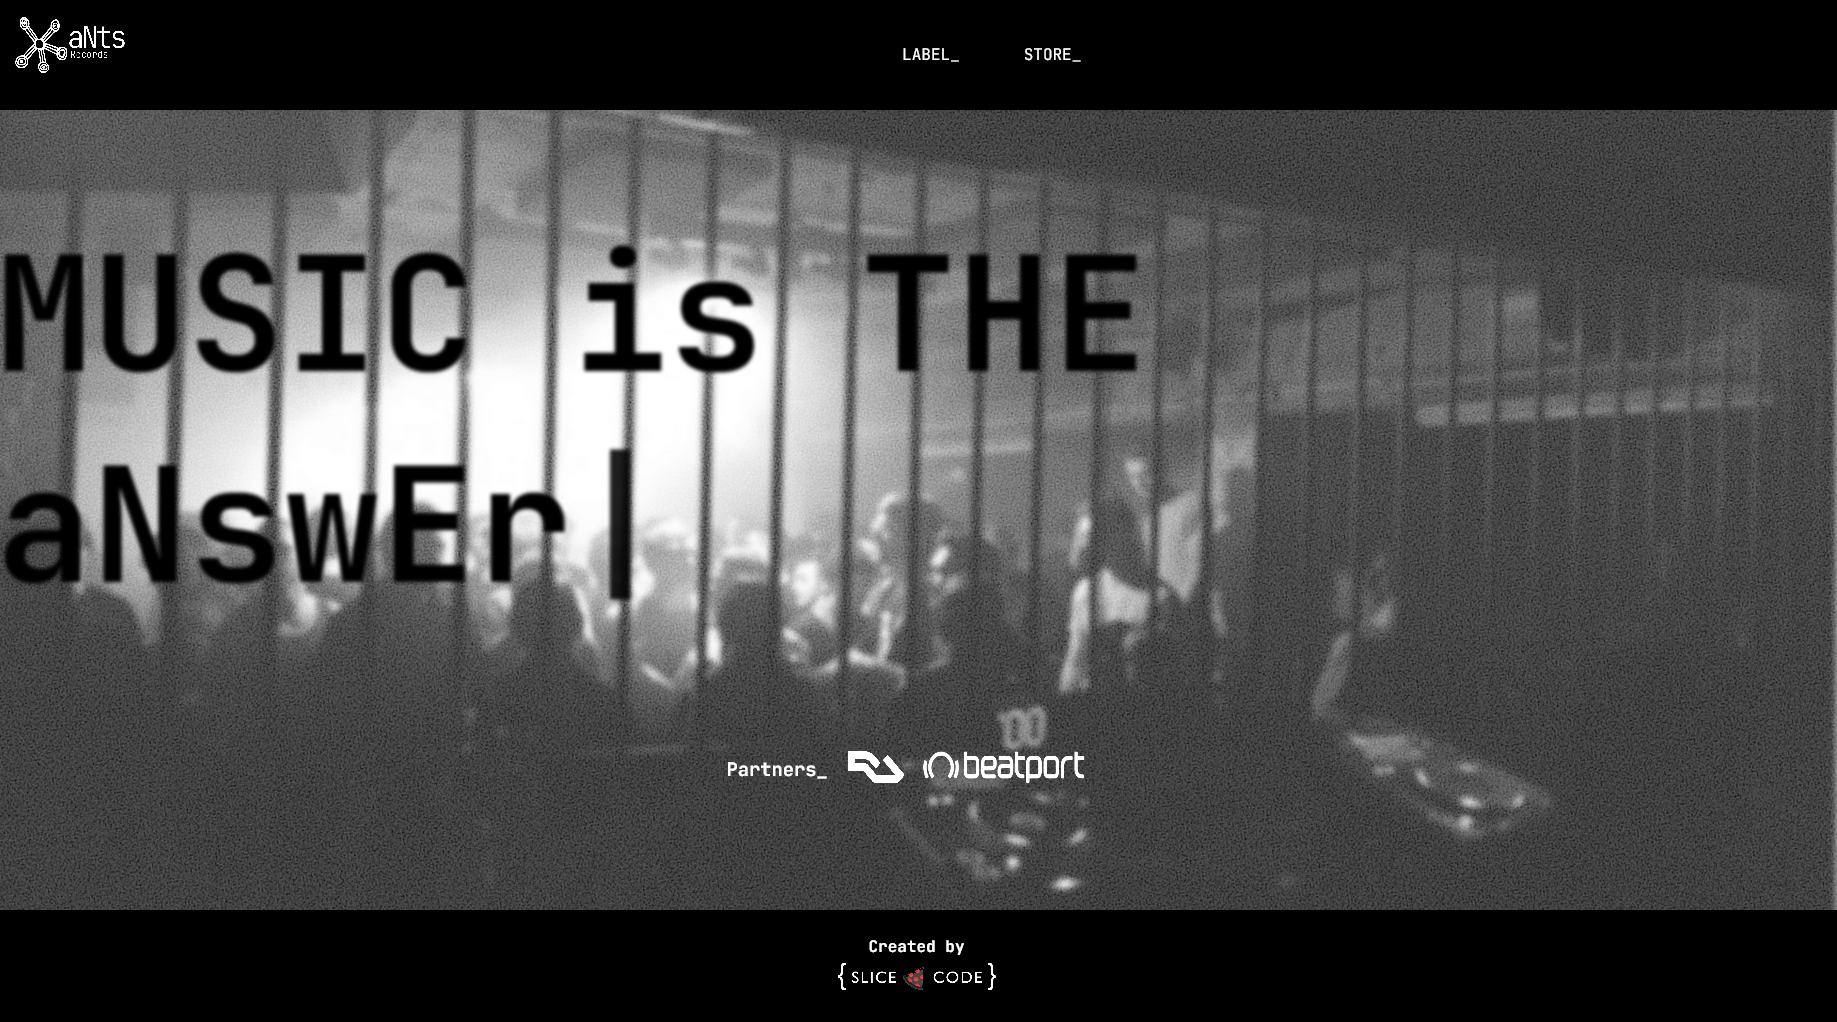
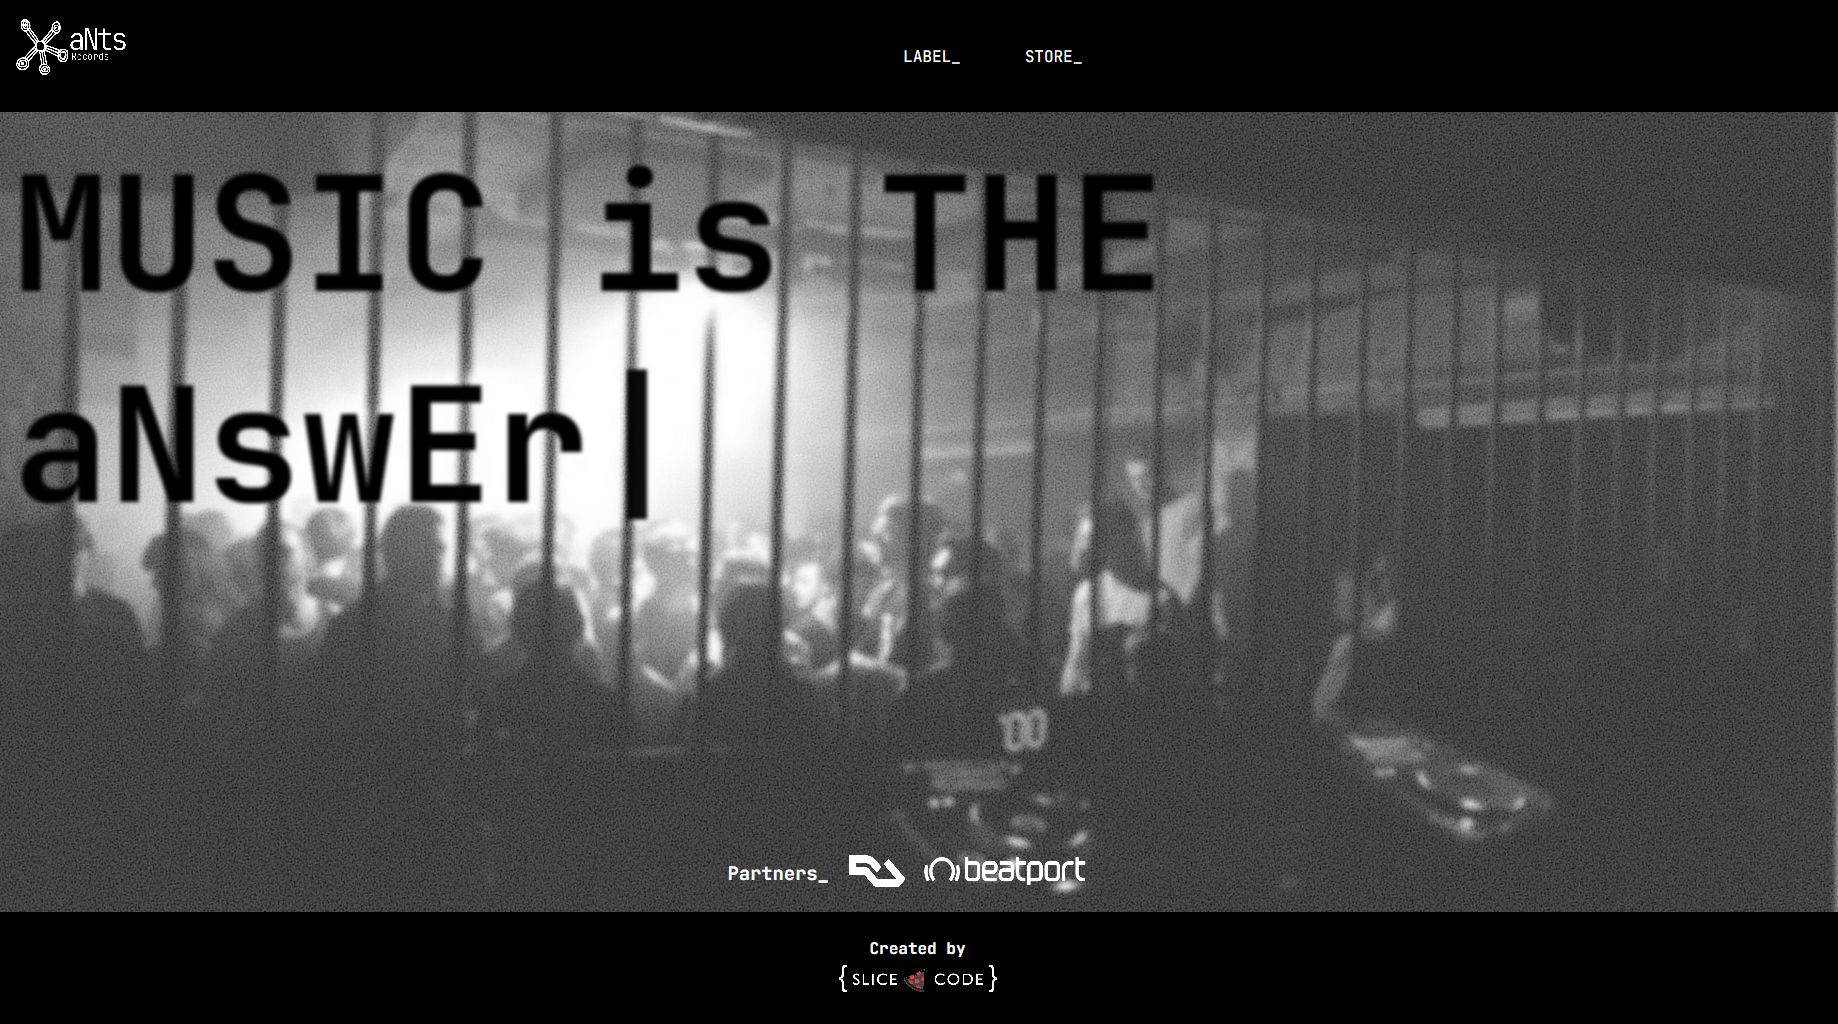
final v.0.1

diff --git a/public/index.html b/public/index.html
@@ -7,23 +7,24 @@
       name="description"
       content="Web site created using create-react-app"
     />
+    
+
+<link rel="apple-touch-icon" sizes="180x180" href="Favicon/apple-touch-icon.png">
+<link rel="icon" type="image/png" sizes="32x32" href="Favicon/favicon-32x32.png">
+<link rel="icon" type="image/png" sizes="16x16" href="Favicon/favicon-16x16.png">
+<link rel="manifest" href="Favicon/site.webmanifest">
+<link rel="mask-icon" href="Favicon/safari-pinned-tab.svg" color="#5bbad5">
+<meta name="msapplication-TileColor" content="#000000">
+<meta name="theme-color" content="#000000">
+
+
     <!-- JetBrains -->
     <link rel="preconnect" href="https://fonts.gstatic.com">
     <link href="https://fonts.googleapis.com/css2?family=JetBrains+Mono:wght@300;400;500;700&display=swap" rel="stylesheet">  
-    <title>React App</title>
+    <title>aNts_Records</title>
   </head>
   <body>
     <noscript>You need to enable JavaScript to run this app.</noscript>
     <div id="root"></div>
-    <!--
-      This HTML file is a template.
-      If you open it directly in the browser, you will see an empty page.
-
-      You can add webfonts, meta tags, or analytics to this file.
-      The build step will place the bundled scripts into the <body> tag.
-
-      To begin the development, run `npm start` or `yarn start`.
-      To create a production bundle, use `npm run build` or `yarn build`.
-    -->
   </body>
 </html>

diff --git a/src/Pages/Home.tsx b/src/Pages/Home.tsx
@@ -43,12 +43,13 @@ const HomeStyle = styled.div`
   background-size: cover;
   display: flex;
   flex-direction: column;
-  justify-content: space-evenly;
+  justify-content: space-between;
 `;
 const MainTitle = styled(motion.h1)`
   font-size: 10rem;
   filter: blur(1.5px) contrast(200%);
   color: #171618;
+  margin:1rem;
   @media (max-width: 700px) {
     font-size: 7rem;
   }
@@ -75,7 +76,7 @@ const ContainerLogos = styled(motion.div)`
   text-align: center;
 `;
 const BeatLogo = styled.img`
-  height: 5rem;
+  height: 4.5rem;
   width: 12.5rem;
   @media (max-width: 430px) {
     height: 3rem;
